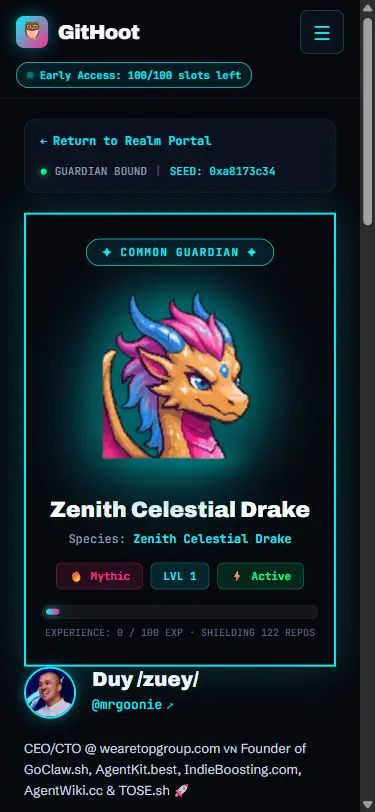
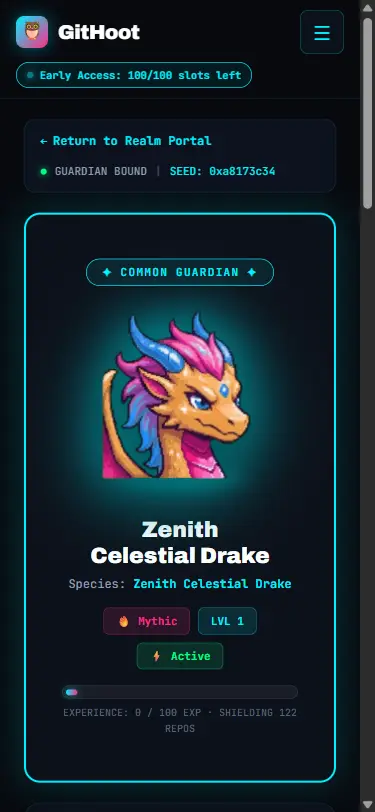
feat(profile): implement responsive 2-column layout and verified PNG evidence

diff --git a/src/client/styles/responsive.css b/src/client/styles/responsive.css
@@ -1317,6 +1317,65 @@ section {
 /* ==========================================================================
    GACHA REVEAL MODAL & HATCHED GUARDIAN PROFILE (Option 1 Cyber-Arcade)
    ========================================================================== */
+/* Profile Page Responsive 2-Column Grid & Surface Contracts */
+.githoot-main-grid {
+  display: grid;
+  grid-template-columns: 1fr 1.15fr;
+  gap: 24px;
+  align-items: start;
+  width: 100%;
+  box-sizing: border-box;
+}
+
+.githoot-card {
+  background: var(--bg-surface-1, #0d111a);
+  border-radius: 16px;
+  padding: clamp(20px, 3vw, 32px);
+  box-sizing: border-box;
+  width: 100%;
+  border: 1px solid rgba(0, 240, 255, 0.15);
+  box-shadow: 0 8px 32px rgba(0, 0, 0, 0.4);
+}
+
+.githoot-stats-grid {
+  display: grid;
+  grid-template-columns: repeat(2, 1fr);
+  gap: 12px;
+  width: 100%;
+  box-sizing: border-box;
+}
+
+.btn-touch {
+  display: inline-flex;
+  align-items: center;
+  justify-content: center;
+  min-height: 48px;
+  cursor: pointer;
+  text-decoration: none;
+  box-sizing: border-box;
+  transition: transform 0.15s ease, box-shadow 0.15s ease, border-color 0.15s ease;
+}
+
+.btn-touch:hover {
+  transform: translateY(-2px);
+}
+
+.btn-touch:active {
+  transform: translateY(1px);
+}
+
+@media (max-width: 880px) {
+  .githoot-main-grid {
+    grid-template-columns: 1fr;
+    gap: 20px;
+  }
+}
+
+@media (max-width: 480px) {
+  .githoot-stats-grid {
+    grid-template-columns: 1fr;
+  }
+}
 
 .githoot-modal-card {
   background: linear-gradient(180deg, #101726 0%, #080b12 100%);

diff --git a/plans/reports/qa-verification-report.md b/plans/reports/qa-verification-report.md
@@ -1,6 +1,6 @@
 # GitHoot Autonomous QA & Verification Report
 
-- **Date:** 2026-08-30T17:54:01.042Z
+- **Date:** 2026-08-30T18:00:07.848Z
 - **Target Domain:** `https://githoot.com`
 - **Runner:** Autonomous Edge QA Suite (scripts/run-autonomous-qa.ts)
 - **Total Tests Executed:** 11
@@ -10,13 +10,13 @@
 
 | Category | Test Name | Status | Duration | Details |
 |---|---|---|---|---|
-| **API** | Healthcheck Endpoint GET /health | ✅ PASS | 15ms | Status: ok, Domain: githoot.com |
+| **API** | Healthcheck Endpoint GET /health | ✅ PASS | 13ms | Status: ok, Domain: githoot.com |
 | **API** | Early Access Status GET /api/early-access/status | ✅ PASS | 0ms | Total Slots: 100, Free Available: true |
-| **API** | Dynamic SVG README Badge GET /badge/octocat.svg | ✅ PASS | 827ms | SVG Length: 1010 bytes, Cache-Control: public, max-age=43200, s-maxage=43200 |
-| **API** | Dynamic OpenGraph Card GET /og/octocat | ✅ PASS | 151ms | OG Image Size: 1200x630, Bytes: 3338 |
+| **API** | Dynamic SVG README Badge GET /badge/octocat.svg | ✅ PASS | 774ms | SVG Length: 1010 bytes, Cache-Control: public, max-age=43200, s-maxage=43200 |
+| **API** | Dynamic OpenGraph Card GET /og/octocat | ✅ PASS | 131ms | OG Image Size: 1200x630, Bytes: 3338 |
 | **DNA** | Deterministic DNA Hash Consistency | ✅ PASS | 0ms | Species: Aether Neon Byte, Element: Cyber, Rarity: Common |
-| **Resolver** | GitHub Profile Resolution GET /api/profile/octocat | ✅ PASS | 153ms | Source: github_live, Egg: solar-flare, Login: @octocat |
-| **Resolver** | 404 User Not Found Propagation for Non-existent User | ✅ PASS | 321ms | HTTP 404 correctly returned for non-existent user |
+| **Resolver** | GitHub Profile Resolution GET /api/profile/octocat | ✅ PASS | 124ms | Source: github_live, Egg: solar-flare, Login: @octocat |
+| **Resolver** | 404 User Not Found Propagation for Non-existent User | ✅ PASS | 302ms | HTTP 404 correctly returned for non-existent user |
 | **Image** | Chroma Green Removal & Edge De-Spill | ✅ PASS | 0ms | Green background Alpha=0, Edge green de-spilled from 190 to 150 |
 | **Image** | Pure TS PNG Encode/Decode Roundtrip | ✅ PASS | 2ms | Encoded: 77 bytes -> Decoded: 2x1 RGBA |
 | **Image** | Smart Bounding Box Detection & Centering | ✅ PASS | 1ms | Original Bbox: [5,5..14,14] -> Centered at (128, 128) |
